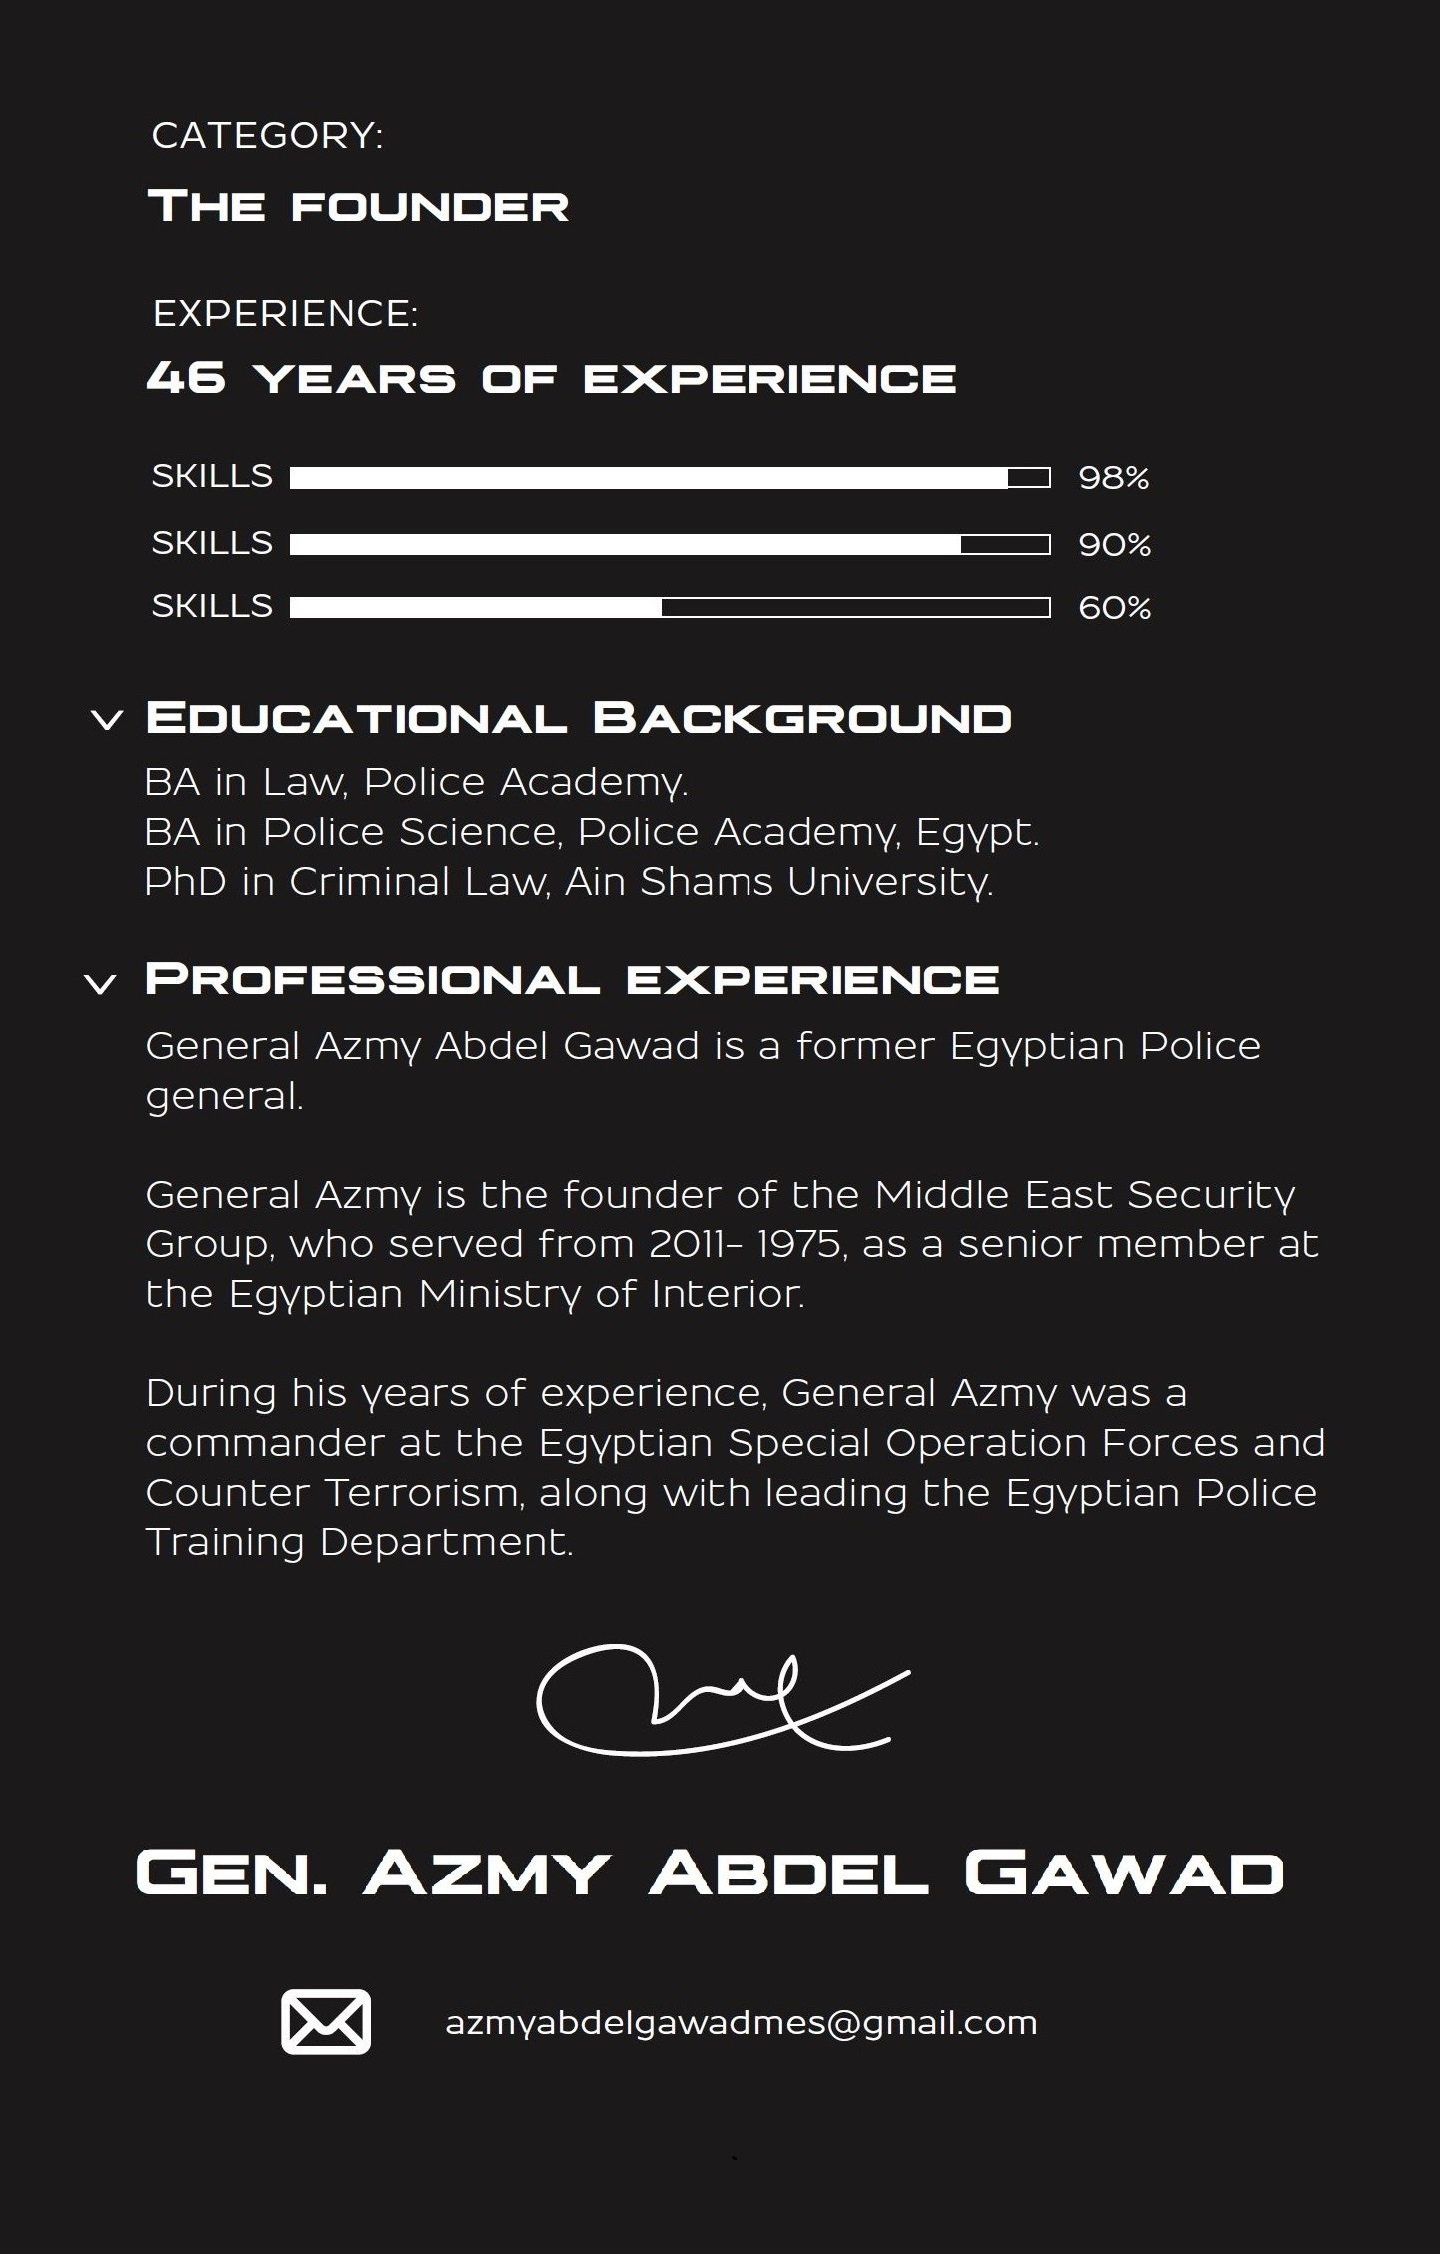
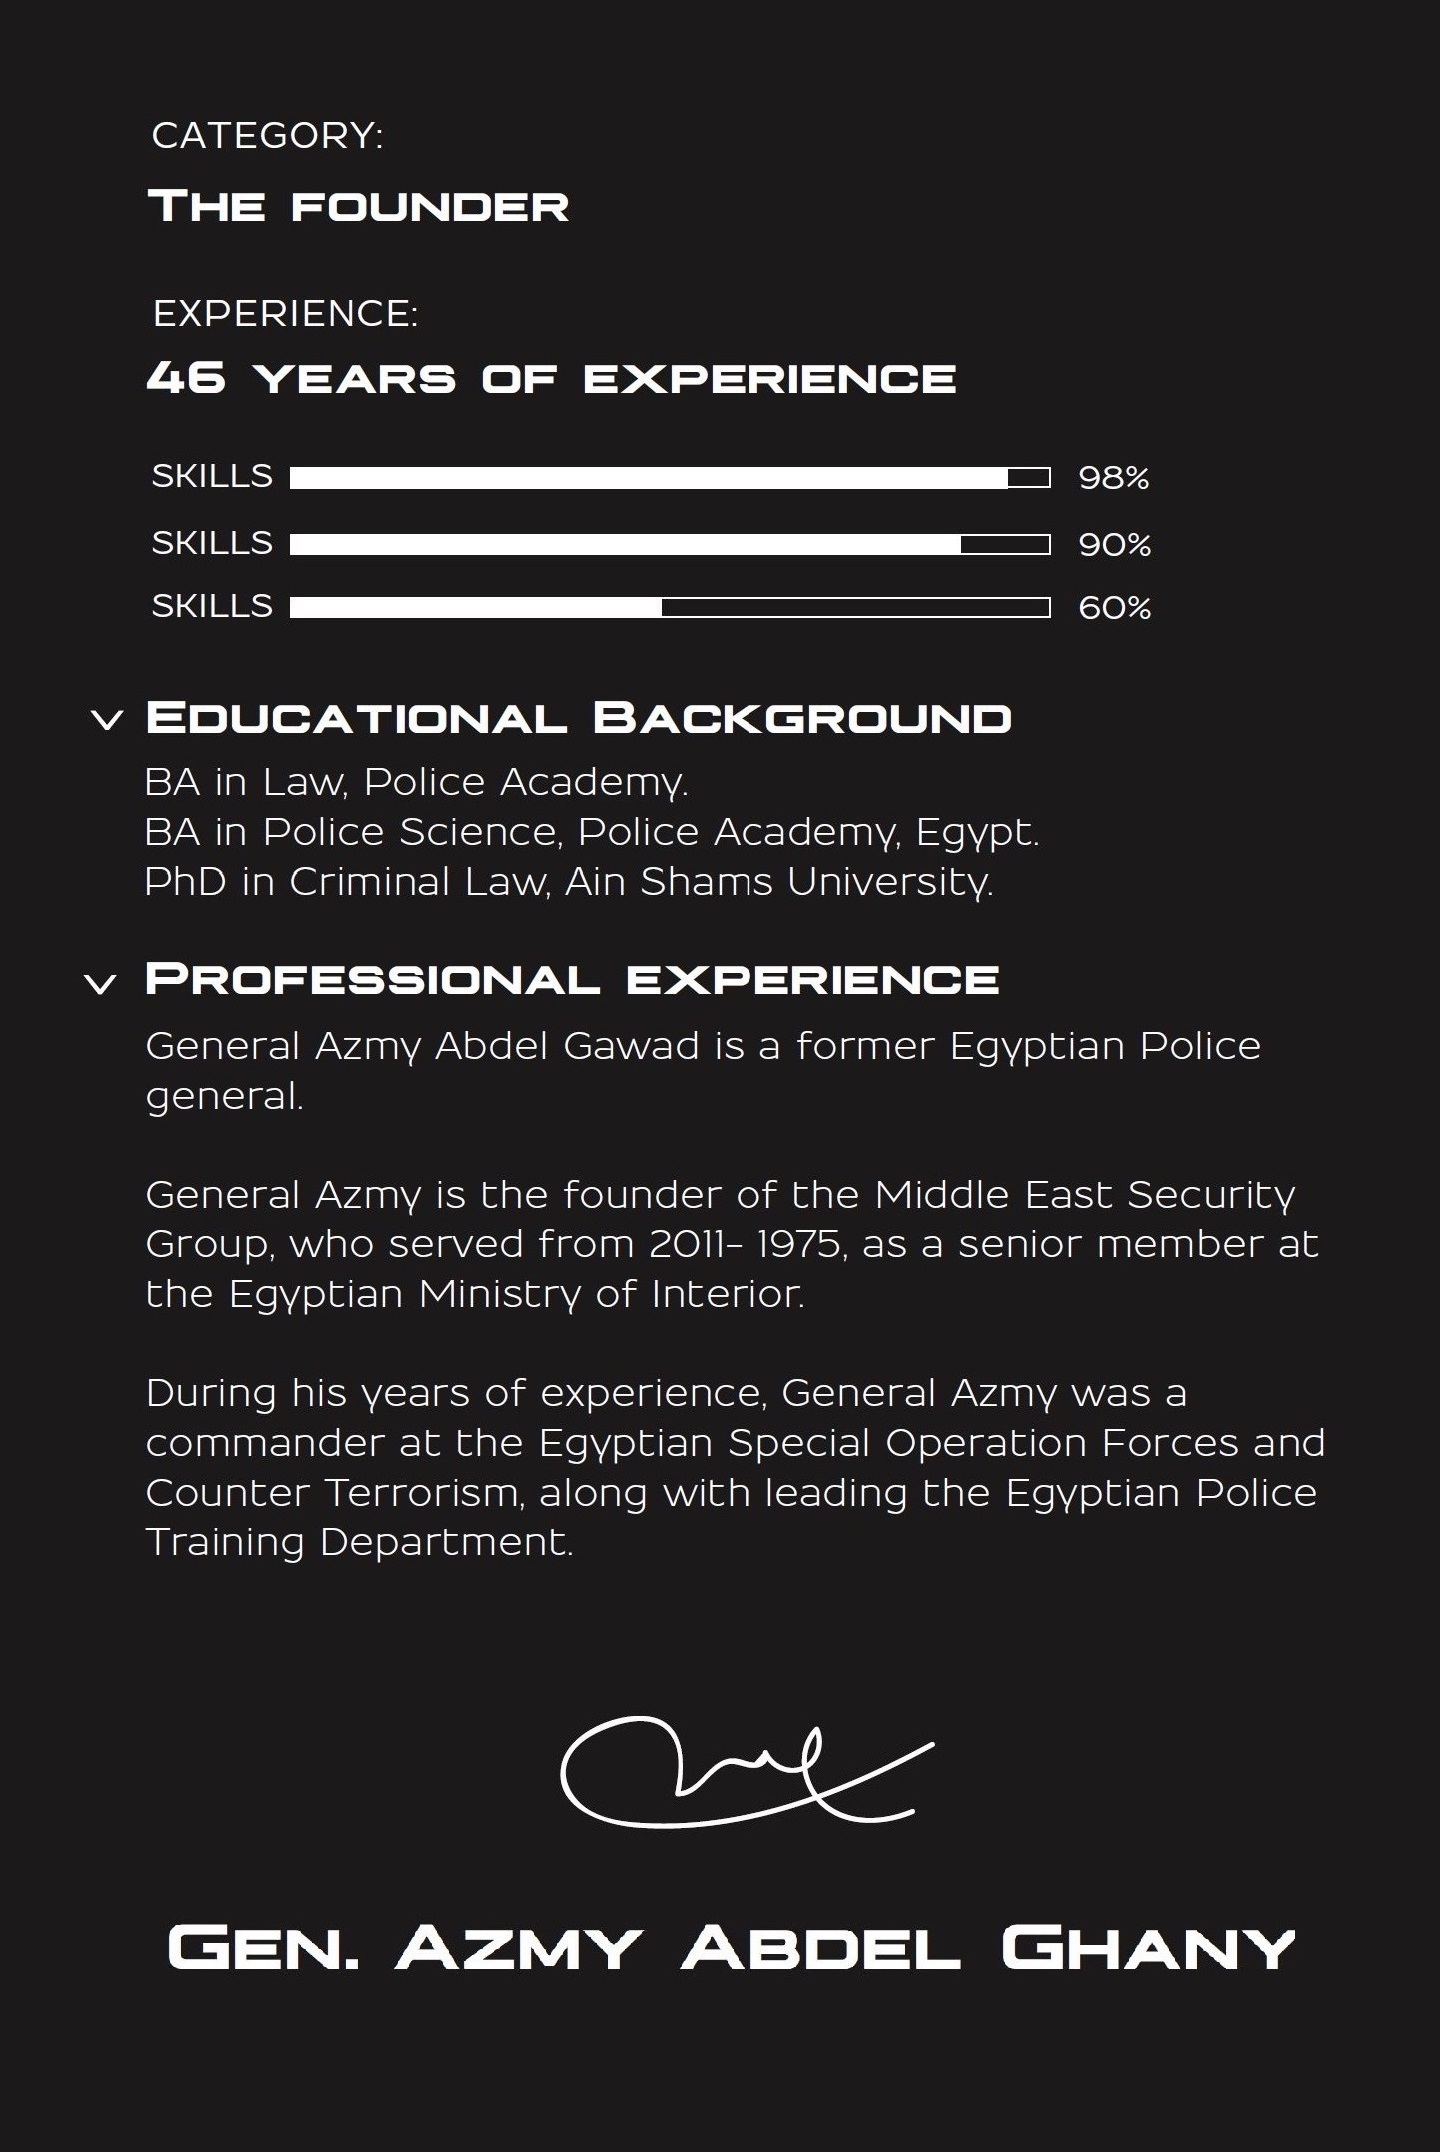
refactor(pages): remove emails and update pictures

diff --git a/src/app/about-us/board-members/board-members.component.html b/src/app/about-us/board-members/board-members.component.html
@@ -27,7 +27,7 @@
             <div (click)="changeSelectedImage(IMAGES_PROFILE.GEN_AZMY)" class="option cursor-pointer">
                 <img *ngIf="selectedImage===IMAGES_PROFILE.GEN_AZMY" class="arrow mr-2"
                     src="{{IMAGES.ABOUT_US.BOARD_MEMBERS.ARROW_RIGHT}}">
-                <span [ngClass]="{'selected': selectedImage===IMAGES_PROFILE.GEN_AZMY}">GEN. AZMY ABDEL GAWAD</span>
+                <span [ngClass]="{'selected': selectedImage===IMAGES_PROFILE.GEN_AZMY}">GEN. AZMY ABDEL GHANY</span>
             </div>
             <div (click)="changeSelectedImage(IMAGES_PROFILE.GEN_ESSAM)" class="option cursor-pointer">
                 <img *ngIf="selectedImage===IMAGES_PROFILE.GEN_ESSAM" class="arrow mr-2"
@@ -39,24 +39,16 @@
     <!-- mobile and tablets -->
     <div class="d-lg-none">
         <div [hidden]="selectedImage!==IMAGES_PROFILE.KHALED_AZMY">
-            <a href="mailto:khaledazmysecuritymes@gmail.com">
-                <primary-img [imgPath]="IMAGES.ABOUT_US.BOARD_MEMBERS.FIVE_KHALED_MOBILE"></primary-img>
-            </a>
+            <primary-img [imgPath]="IMAGES.ABOUT_US.BOARD_MEMBERS.FIVE_KHALED_MOBILE"></primary-img>
         </div>
         <div [hidden]="selectedImage!==IMAGES_PROFILE.MOHAMED_AZMY">
-            <a href="mailto:mohamedazmysecuritymes@gmail.com">
-                <primary-img [imgPath]="IMAGES.ABOUT_US.BOARD_MEMBERS.SIX_KHALED_MOBILE"></primary-img>
-            </a>
+            <primary-img [imgPath]="IMAGES.ABOUT_US.BOARD_MEMBERS.SIX_KHALED_MOBILE"></primary-img>
         </div>
         <div [hidden]="selectedImage!==IMAGES_PROFILE.GEN_AZMY">
-            <a href="mailto:azmyabdelgawadmes@gmail.com">
-                <primary-img [imgPath]="IMAGES.ABOUT_US.BOARD_MEMBERS.SEVEN_KHALED_MOBILE"></primary-img>
-            </a>
+            <primary-img [imgPath]="IMAGES.ABOUT_US.BOARD_MEMBERS.SEVEN_KHALED_MOBILE"></primary-img>
         </div>
         <div [hidden]="selectedImage!==IMAGES_PROFILE.GEN_ESSAM">
-            <a href="mailto:essamabdelghany@gmail.com">
-                <primary-img [imgPath]="IMAGES.ABOUT_US.BOARD_MEMBERS.EIGHT_KHALED_MOBILE"></primary-img>
-            </a>
+            <primary-img [imgPath]="IMAGES.ABOUT_US.BOARD_MEMBERS.EIGHT_KHALED_MOBILE"></primary-img>
         </div>
     </div>
     <!-- desktop -->

diff --git a/src/app/services/services.component.ts b/src/app/services/services.component.ts
@@ -19,7 +19,7 @@ export class ServicesComponent implements OnInit {
   providing the safest possible environment for clients
   and their personnel to operate.`;
 
-  textParaghraphImgThree = `<h2>EVENT SECURITY</h2><br>Middle East Security has signicant experience
+  textParaghraphImgThree = `<h2>EVENT SECURITY</h2><br>Middle East Security has significant experience
 providing Security Advisors to underpin our clients’
 Special Events.<br>
 We also liaise with key local event partners to ensure
@@ -35,7 +35,7 @@ priorities.
 
   textParaghraphImgFive = `<h2>MANNED SECURITY GUARDING</h2><br>Middle East Security provides security services
   utilized with respectable, well trained vetted and
-  discreet security ofcers who are cognizant at
+  discreet security officers who are cognizant at
   all times to have the force needed for securing
   the client's business properties and assets.`;
   textParaghraphImgSix = `<h2>MEET & GREET</h2><br>Middle East Security Meet &Greet service provides a quick
@@ -48,7 +48,7 @@ priorities.
   textParaghraphImgSeven = `<h2>SECURE TRANSPORTATION</h2><br>Middle East Security offers tailored solutions based upon
   the client's itineraries, travel plans and the risk landscapes
   of the destinations, aligned with Middle East Security
-  trained chauffeurs, with high- specication vehicles.<br>
+  trained chauffeurs, with high- specification vehicles.<br>
   We can dovetail other security services into Secure
   Transportation requests, such as Close Protection.`;
 

diff --git a/src/app/systems/systems.component.ts b/src/app/systems/systems.component.ts
@@ -61,14 +61,14 @@ systems and network sources and then analyzing the information
 for any possible security problems.<br>
 Intrusion Detection Systems provide the following:<br>
 • Monitoring and analysis of user and system activity.<br>
-• Auditing of system congurations and vulnerabilities.<br>
+• Auditing of system configurations and vulnerabilities.<br>
 • Assessing the integrity of the critical system and data files.<br>
 • Statistical analysis of activity patterns, based on the matching to discover attacks.<br>
 • Irregular activity analysis.<br>
 • Operating system audits.<br>`;
   textParaghraphImgSeven = `<h2>Fire Alarm systems</h2><br>
-Fire detection systems are designed to discover fires at its early development, which eases safe evacuation of occupants.<br>
-Early detection also plays a signicant role in protecting your assets.<br>
+Fire detection systems are designed to discover fires at its early development, which eases safe evacuation of occupants.<br>
+Early detection also plays a significant role in protecting your assets.<br>
 Property loss can be reduced and downtime through early detection.<br>
 Most alarm systems provide information to emergency responders with the location of the firre, which supports the process of fire control.`;
 textParaghraphImgEight = `<h2>Safety and Security Film</h2><br>

diff --git a/src/app/home-page/home-page.component.html b/src/app/home-page/home-page.component.html
@@ -13,7 +13,7 @@
     <div class="social-icons-area col-12 col-md-3 pr-2 text-center text-md-right ml-md-auto pr-md-5">
         <span (click)="externalNavigation(MES_ROUTES.EXTERNAL_URL.SOCIAL_MEDIA.FACEBOOK)" class="pr-3"><img
                 class="social-icons" src="{{IMAGES.HOME_PAGE.FACEBOOK_ICON}}"></span>
-        <span (click)="externalNavigation(MES_ROUTES.EXTERNAL_URL.SOCIAL_MEDIA.FACEBOOK)" class="pr-3"><img
+        <span (click)="externalNavigation(MES_ROUTES.EXTERNAL_URL.SOCIAL_MEDIA.INSTAGRAM)" class="pr-3"><img
                 class="social-icons" src="{{IMAGES.HOME_PAGE.INSTAGRAM_ICON}}"></span>
     </div>
 </div>

diff --git a/src/app/about-us/who-we-are/who-we-are.component.html b/src/app/about-us/who-we-are/who-we-are.component.html
@@ -22,15 +22,13 @@
 [textParagraph]="textParaghraphImgSix"
 [imgTextAlignmentReversed]="true"></img-text>
 
-<div class="mb-5">
-    <img-text [imgPath]="IMAGES.ABOUT_US.WHO_WE_ARE.SEVEN"></img-text>
-</div>
+<img-text [imgPath]="IMAGES.ABOUT_US.WHO_WE_ARE.SEVEN"></img-text>
 
 <div class="our-partners-title ml-4 mb-5 p-0 col-10 col-md-4">
     OUR PARTNERS
 </div>
 
-<div class="col-12 col-md-10 mx-auto">
+<div class="col-12 col-md-10 mx-auto mb-5">
     <primary-img [imgPath]="IMAGES.ABOUT_US.WHO_WE_ARE.EIGHT"></primary-img>
 </div>
 

diff --git a/src/app/about-us/who-we-are/who-we-are.component.ts b/src/app/about-us/who-we-are/who-we-are.component.ts
@@ -51,7 +51,7 @@ export class WhoWeAreComponent implements OnInit {
   Road Blockers, Tire Killer, Turnstile Gates, Mantrap Gates, Time-Attendance, and X-Ray Machines.`;
 
   textParaghraphImgFive = `<h4>Our Mission</h4><br>Identify and mitigate our client’s risks, to be able to
-  operate safely with efciency and provide a wide range of
+  operate safely with efficiency and provide a wide range of
   high-quality security solutions in order to ensure our
   client’s satisfaction.`;
 

diff --git a/src/app/home-page/home-page.component.ts b/src/app/home-page/home-page.component.ts
@@ -25,7 +25,7 @@ checkScroll() {
   IMAGES = IMAGES;
 
   textParaghraphImgTwo = `<strong style="font-family: sans-serif; font-weight: bold;">Middle East Security</strong> was established in 2009, developed by an
-  elite group of policemen and military ofcers, security
+  elite group of policemen and military officers, security
   specialists, highly experienced lawyers and well-trained
   administrators who use state-of- the-art leadership
   techniques.<br>

diff --git a/src/app/about-us/board-members/board-members.component.scss b/src/app/about-us/board-members/board-members.component.scss
@@ -11,7 +11,7 @@
     }
 }
 .selection-area {
-	padding: 20px 50px;
+	padding: 20px 0px 20px 50px;
     background: rgb(29,25,26);
     color: white;
     font-size: 18px;
@@ -24,7 +24,7 @@
 @media(min-width: 992px) {
     .selection-area {
         position: relative;
-        background: red;
+        background: $mes-cyan-color;
         z-index: 99999999;
         border-top: none;
 
